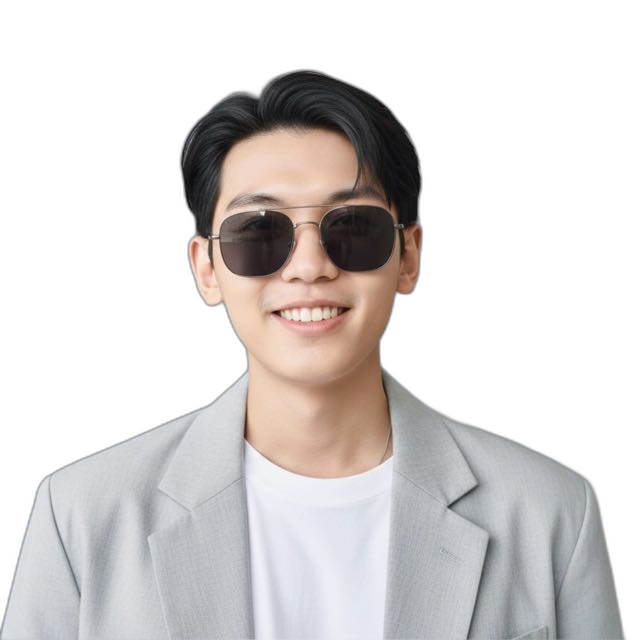
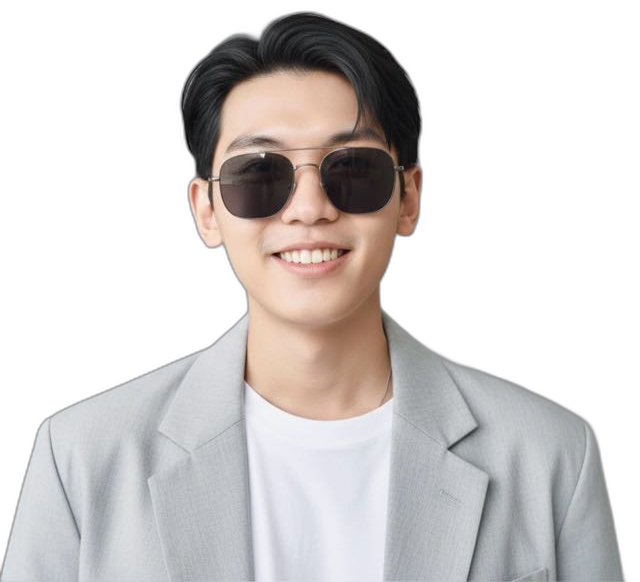
Ground the hero cut-out to the bottom instead of floating mid-row
Matches the requested reference more closely: the figure now anchors
to the bottom of the hero and extends past the CTA row, rather than
sitting vertically centered against the text column.

- align-items: center -> end on the grid, plus a small negative
  margin on the photo so it extends into the hero's existing bottom
  padding instead of stopping flush with the text column.
- Cropped the empty ~64px transparent margin off the top of the
  cut-out PNG so the head sits right at the image's top edge, which
  matters once the figure is bottom-anchored and taller than the
  text column.
- First attempt at this also shifted the column ratio (1.15fr/0.85fr
  -> 1.05fr/0.95fr) to make room, which regressed the headline from
  4 lines to 6 cramped ones — reverted that and went the other way
  (1.35fr/0.65fr, smaller photo max-width) so the headline keeps its
  original wrap while the photo still gets the grounded look.

Regression-tested all 6 pages at 375/1440px: zero errors, zero
overflow.

diff --git a/site/assets/main.css b/site/assets/main.css
@@ -177,14 +177,16 @@ img { max-width: 100%; display: block; }
 .ldm-hero-content { position: relative; z-index: 1; }
 .ldm-hero-layout {
   display: grid;
-  grid-template-columns: 1.15fr 0.85fr;
-  align-items: center;
-  gap: clamp(32px, 5vw, 72px);
+  grid-template-columns: 1.35fr 0.65fr;
+  align-items: end;
+  gap: clamp(24px, 4vw, 56px);
 }
 .ldm-hero-photo {
   position: relative;
-  max-width: 400px;
+  max-width: 340px;
   justify-self: end;
+  align-self: end;
+  margin-bottom: -32px;
 }
 .ldm-hero-photo-glow {
   position: absolute;
@@ -207,7 +209,7 @@ img { max-width: 100%; display: block; }
 }
 @media (max-width: 900px) {
   .ldm-hero-layout { grid-template-columns: 1fr; gap: 8px; }
-  .ldm-hero-photo { order: -1; max-width: 220px; justify-self: center; }
+  .ldm-hero-photo { order: -1; max-width: 220px; justify-self: center; margin-bottom: 0; }
 }
 
 /* ---------- Concept network (signature hero interaction) ---------- */

diff --git a/site/index.html b/site/index.html
@@ -78,7 +78,7 @@
         </div>
         <div class="ldm-hero-photo">
           <div class="ldm-hero-photo-glow" aria-hidden="true"></div>
-          <img src="assets/img/liam-cutout.png" alt="Liam, Digital Marketing Manager" width="640" height="640" loading="eager">
+          <img src="assets/img/liam-cutout.png" alt="Liam, Digital Marketing Manager" width="640" height="582" loading="eager">
         </div>
       </div>
     </div>
